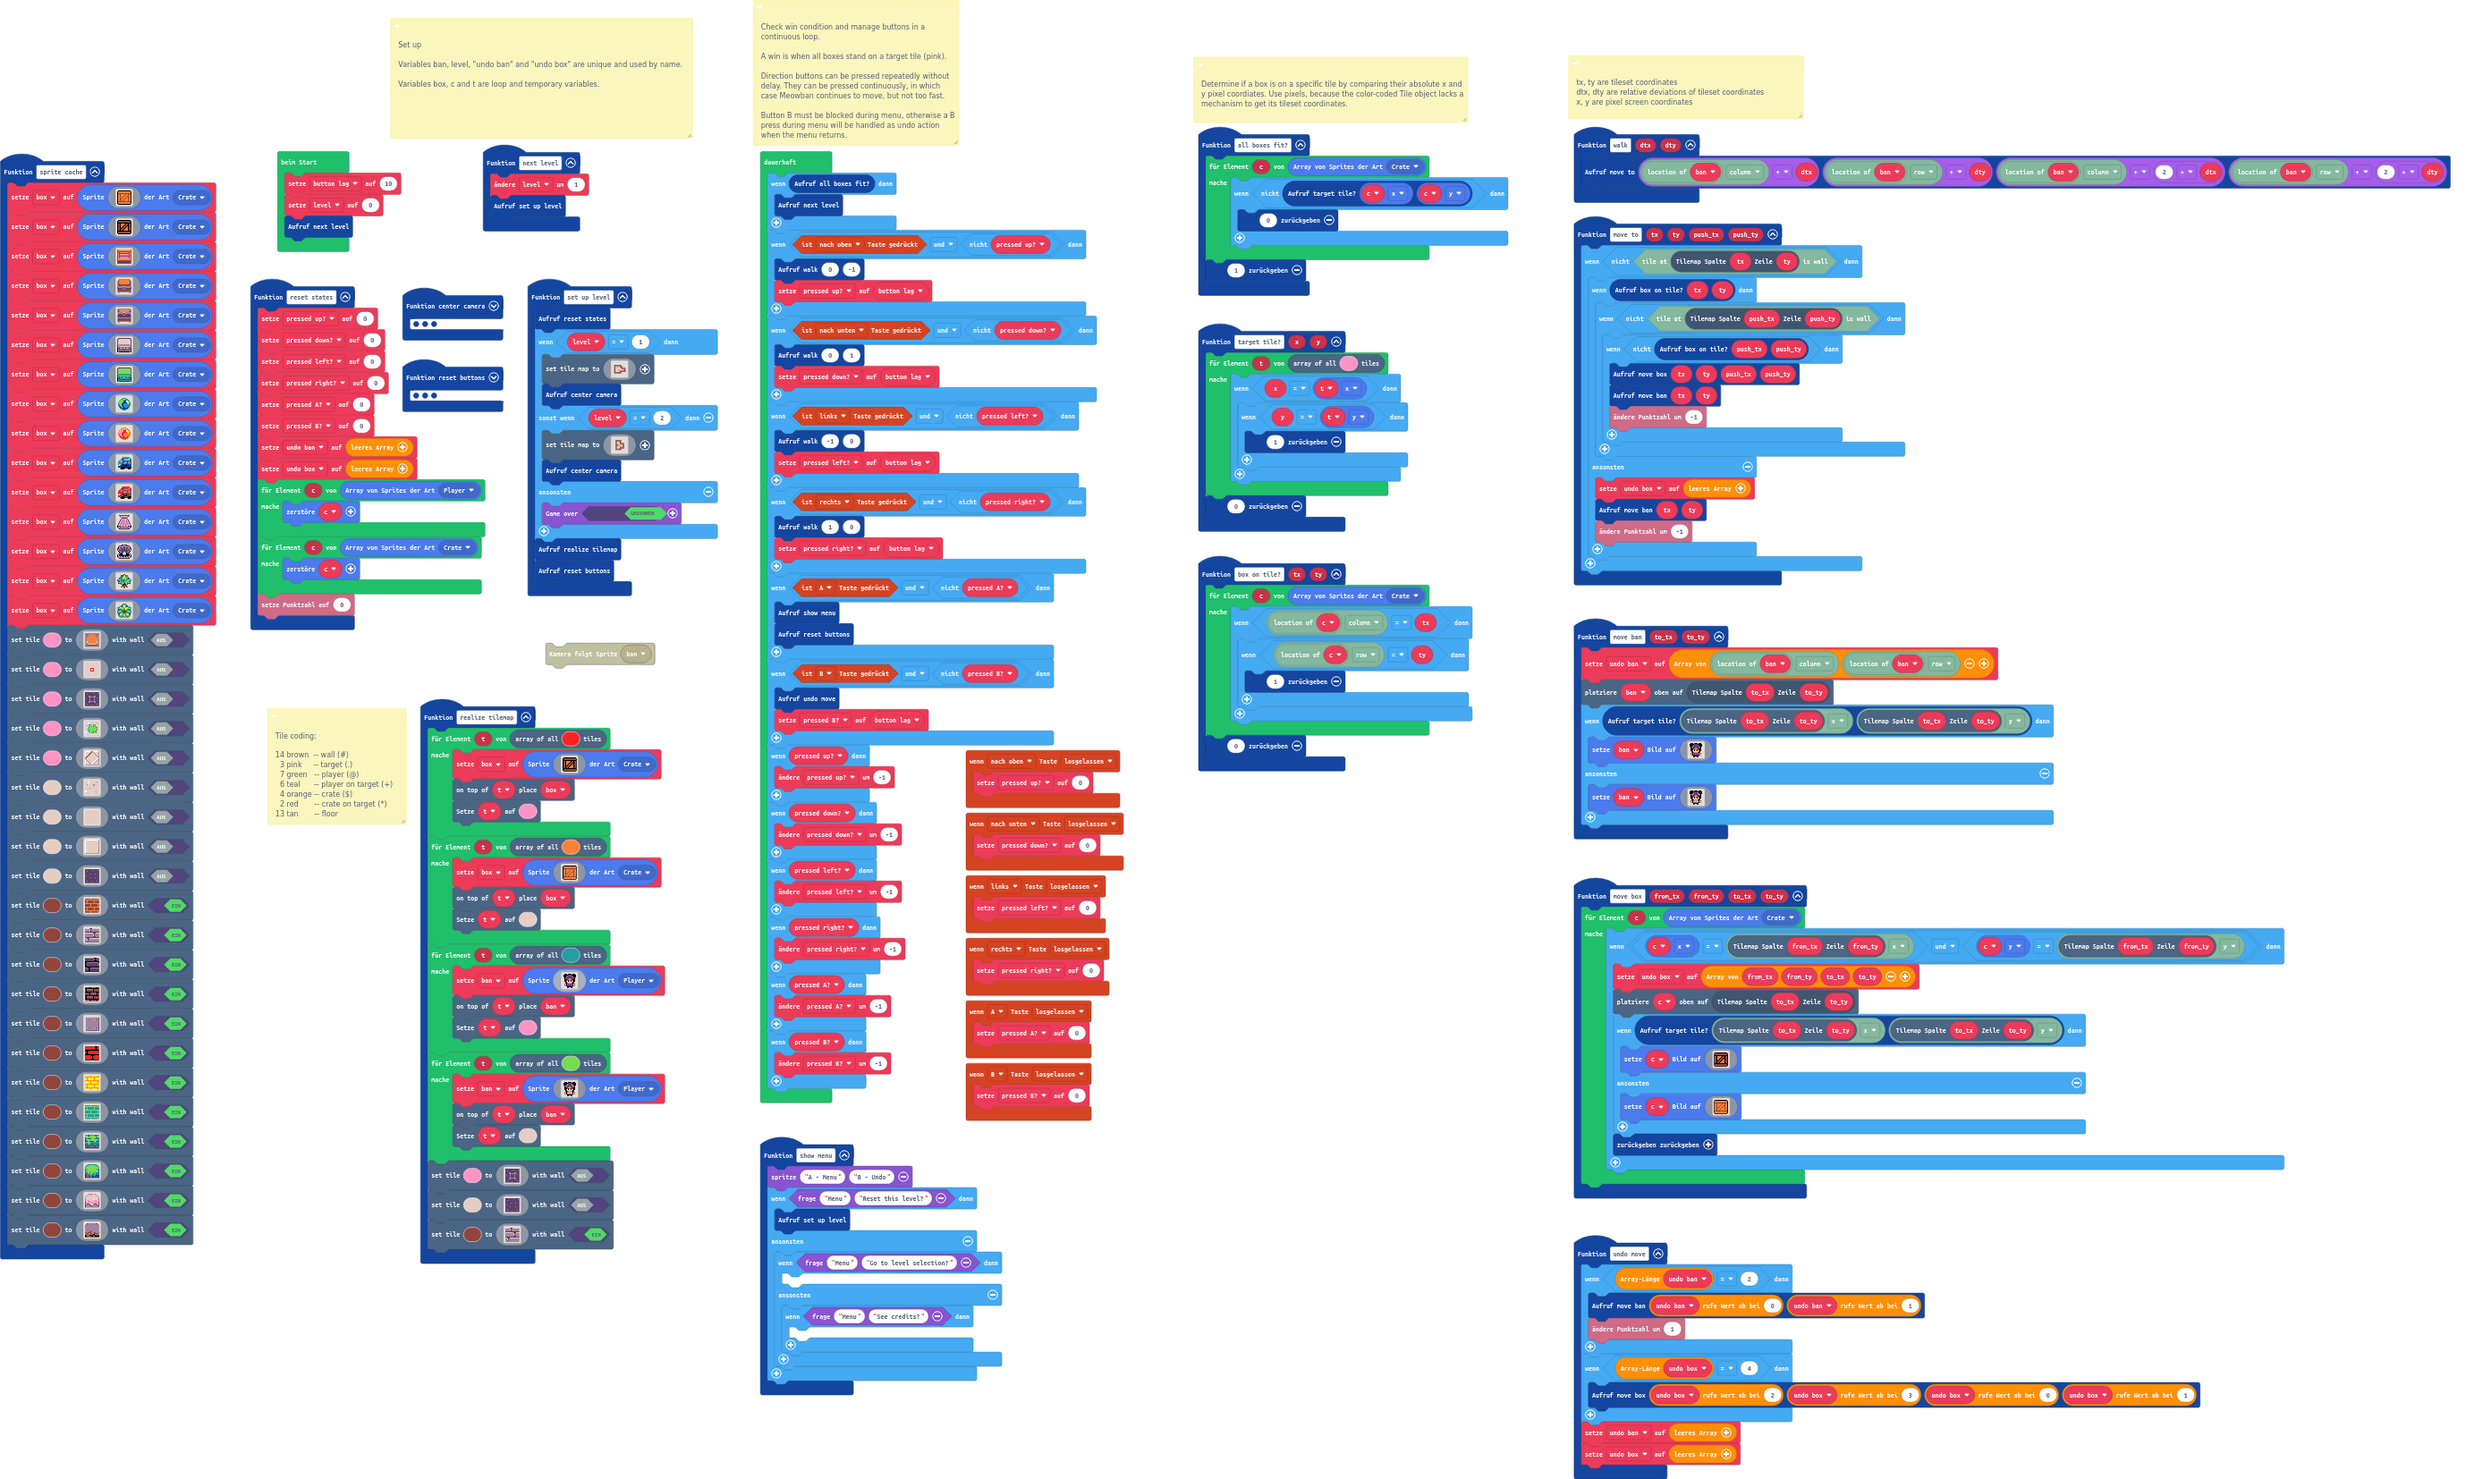
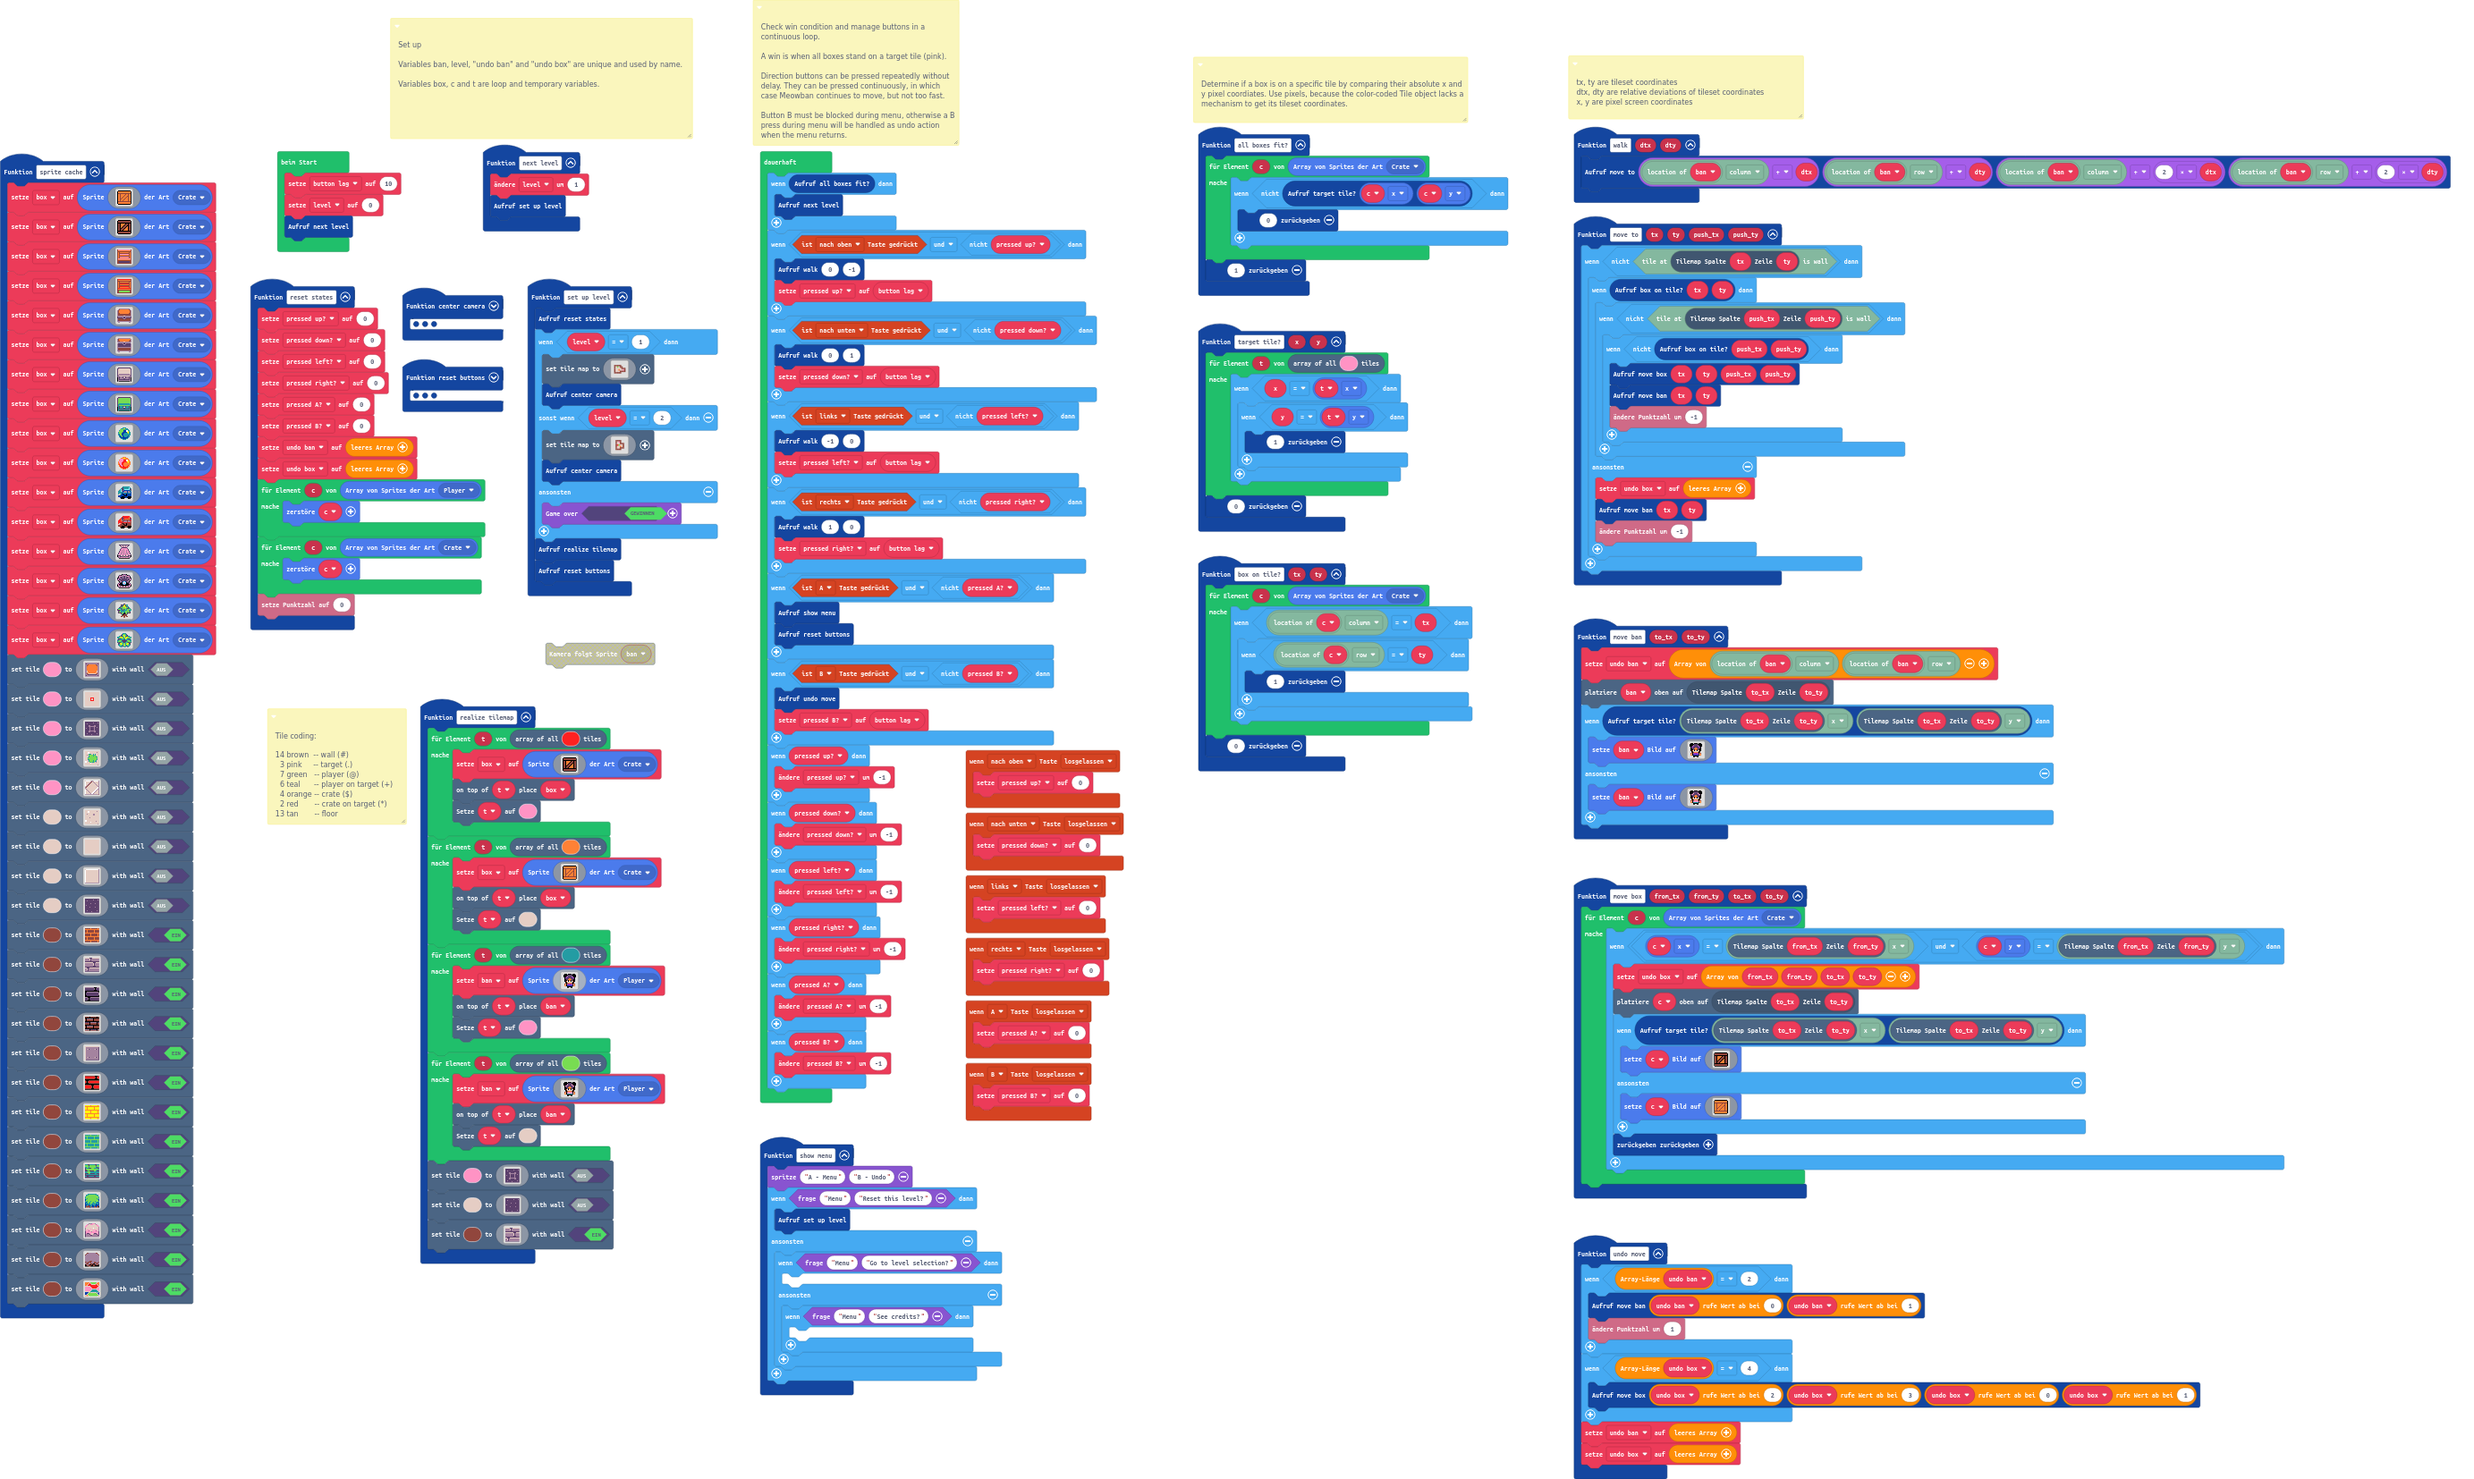
Last sprite updates, promised!

diff --git a/main.ts b/main.ts
@@ -141,6 +141,24 @@ function sprite_cache () {
         e e e e e e e e e e e e e e e e 
         `, SpriteKind.Crate)
     box = sprites.create(img`
+        e 2 2 2 2 2 2 2 2 2 2 2 2 2 2 e 
+        e 4 4 4 4 4 4 4 4 4 4 4 4 4 4 e 
+        e e e e e e e e e e e e e e e e 
+        e 4 e 4 4 4 4 4 4 4 4 4 4 e 4 e 
+        e 4 e e e e e e e e e e e e 4 e 
+        e 4 e 2 2 2 2 2 2 2 2 2 2 e 4 e 
+        e 4 e 4 4 4 4 4 4 4 4 4 4 e 4 e 
+        e 4 e e e e e e e e e e e e 4 e 
+        e 4 e 2 2 2 2 2 2 2 2 2 2 e 4 e 
+        e 4 e 4 4 4 4 4 4 4 4 4 4 e 4 e 
+        e 2 2 2 2 2 2 2 2 2 2 2 2 2 2 e 
+        e 4 4 4 4 4 4 4 4 4 4 4 4 4 4 e 
+        e e e e e e e e e e e e e e e e 
+        e e 7 7 7 7 7 7 7 7 7 7 7 7 e e 
+        e e 7 7 7 7 7 7 7 7 7 7 7 7 e e 
+        e e e e e e e e e e e e e e e e 
+        `, SpriteKind.Crate)
+    box = sprites.create(img`
         . . b b b b b b b b b b b b . . 
         . b e 4 4 4 4 4 4 4 4 4 4 e b . 
         b e 4 4 4 4 4 4 4 4 4 4 4 4 e b 
@@ -733,6 +751,24 @@ function sprite_cache () {
         f e b b e f f e f e e f e e e f 
         f f e e e e e f f e e f f f f f 
         f f f f e e f f f f f f f f f f 
+        `, true)
+    scene.setTile(14, img`
+        4 4 4 4 4 d 7 7 7 7 7 7 7 d 4 4 
+        4 4 4 4 d 2 d 7 7 7 7 7 d 4 4 4 
+        4 4 4 d 2 2 2 d d d d d 2 d 4 4 
+        4 4 d 2 2 2 2 2 2 2 2 2 2 2 d 4 
+        d d d d d d 2 2 2 2 2 2 2 2 2 d 
+        3 3 3 3 3 3 d 2 2 2 2 2 2 2 d 3 
+        3 3 3 3 3 3 3 d 2 2 2 2 2 d 3 3 
+        3 3 3 3 3 3 3 3 d d d d d 3 3 3 
+        3 3 3 3 3 3 3 d 6 6 6 6 6 d 3 3 
+        3 3 3 3 3 3 d 6 6 6 6 6 6 6 d 3 
+        d d d d d d 6 6 6 6 6 6 6 6 6 d 
+        8 8 8 8 d 7 d d d d d d d 6 d 8 
+        8 8 8 d 7 7 7 7 7 7 7 7 7 d 8 8 
+        8 8 d 7 7 7 7 7 7 7 7 7 7 7 d 8 
+        d d 4 d 7 7 7 7 7 7 7 7 7 7 7 d 
+        4 4 4 4 d 7 7 7 7 7 7 7 7 7 d 4 
         `, true)
 }
 function show_menu () {

diff --git a/images.g.ts b/images.g.ts
@@ -870,6 +870,42 @@ d b d d d d d d d d d d 1 1 b b
 1 d d d d d b 1 1 b d d d d d b 
 b b b b b b b b b b b b b b b e 
 `;
+            case "image27":return img`
+e 2 2 2 2 2 2 2 2 2 2 2 2 2 2 e 
+e 4 4 4 4 4 4 4 4 4 4 4 4 4 4 e 
+e e e e e e e e e e e e e e e e 
+e 4 e 4 4 4 4 4 4 4 4 4 4 e 4 e 
+e 4 e e e e e e e e e e e e 4 e 
+e 4 e 2 2 2 2 2 2 2 2 2 2 e 4 e 
+e 4 e 4 4 4 4 4 4 4 4 4 4 e 4 e 
+e 4 e e e e e e e e e e e e 4 e 
+e 4 e 2 2 2 2 2 2 2 2 2 2 e 4 e 
+e 4 e 4 4 4 4 4 4 4 4 4 4 e 4 e 
+e 2 2 2 2 2 2 2 2 2 2 2 2 2 2 e 
+e 4 4 4 4 4 4 4 4 4 4 4 4 4 4 e 
+e e e e e e e e e e e e e e e e 
+e e 7 7 7 7 7 7 7 7 7 7 7 7 e e 
+e e 7 7 7 7 7 7 7 7 7 7 7 7 e e 
+e e e e e e e e e e e e e e e e 
+`;
+            case "image34":return img`
+4 4 4 4 4 d 7 7 7 7 7 7 7 d 4 4 
+4 4 4 4 d 2 d 7 7 7 7 7 d 4 4 4 
+4 4 4 d 2 2 2 d d d d d 2 d 4 4 
+4 4 d 2 2 2 2 2 2 2 2 2 2 2 d 4 
+d d d d d d 2 2 2 2 2 2 2 2 2 d 
+3 3 3 3 3 3 d 2 2 2 2 2 2 2 d 3 
+3 3 3 3 3 3 3 d 2 2 2 2 2 d 3 3 
+3 3 3 3 3 3 3 3 d d d d d 3 3 3 
+3 3 3 3 3 3 3 d 6 6 6 6 6 d 3 3 
+3 3 3 3 3 3 d 6 6 6 6 6 6 6 d 3 
+d d d d d d 6 6 6 6 6 6 6 6 6 d 
+8 8 8 8 d 7 d d d d d d d 6 d 8 
+8 8 8 d 7 7 7 7 7 7 7 7 7 d 8 8 
+8 8 d 7 7 7 7 7 7 7 7 7 7 7 d 8 
+d d 4 d 7 7 7 7 7 7 7 7 7 7 7 d 
+4 4 4 4 d 7 7 7 7 7 7 7 7 7 d 4 
+`;
         }
         return null;
     })
